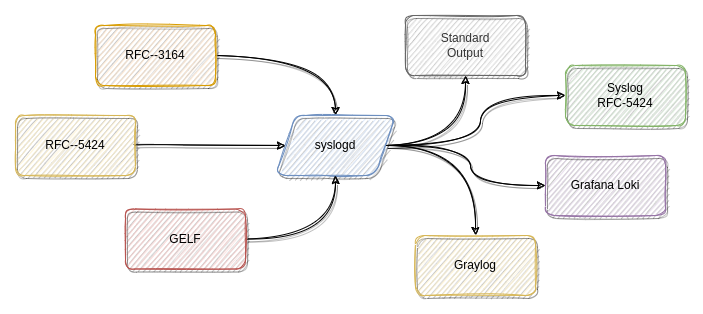
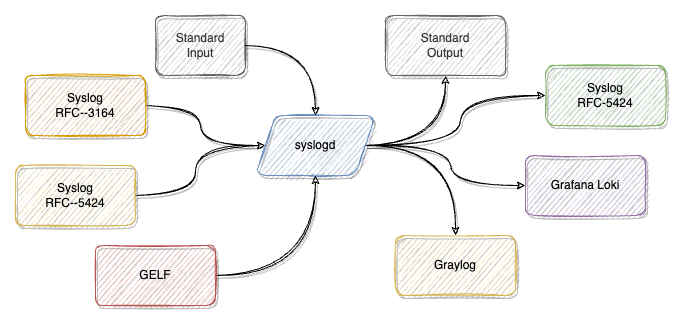
Read from stdin and forward.

Changed region(s): [[0.0, 0.0287, 0.9839, 0.9745]]

diff --git a/src/main/java/biz/nellemann/syslogd/InputReader.java b/src/main/java/biz/nellemann/syslogd/InputReader.java
@@ -1,0 +1,69 @@
+package biz.nellemann.syslogd;
+
+import biz.nellemann.syslogd.msg.SyslogMessage;
+
+import java.io.InputStream;
+import java.util.ArrayList;
+import java.util.List;
+import java.util.Scanner;
+
+public class InputReader extends Thread {
+
+    private final Scanner input;
+    private final String protocol;
+
+    public InputReader(InputStream inputStream, String protocol) {
+        input = new Scanner(inputStream);
+        this.protocol = protocol;
+    }
+
+    public void run() {
+
+        while(input.hasNextLine()) {
+            SyslogMessage msg = new SyslogMessage(input.nextLine());
+            msg.hostname = "localhost";
+            msg.application = "syslogd";
+
+            String payload;
+            if(protocol.equalsIgnoreCase("GELF"))
+                payload = SyslogPrinter.toGelf(msg);
+            else if (protocol.equalsIgnoreCase("RFC-5424")) {
+                payload = SyslogPrinter.toRfc5424(msg);
+            } else {
+                payload = SyslogPrinter.toRfc3164(msg);
+            }
+
+            sendEvent(payload);
+        }
+        input.close();
+    }
+
+
+    private synchronized void sendEvent(String text) {
+        LogReceiveEvent event = new LogReceiveEvent( this, text);
+        for (LogReceiveListener eventListener : eventListeners) {
+            eventListener.onLogEvent(event);
+        }
+    }
+
+
+    /**
+     * Event Listener Configuration
+     */
+
+    protected List<LogReceiveListener> eventListeners = new ArrayList<>();
+
+    public synchronized void addEventListener(LogReceiveListener listener ) {
+        eventListeners.add( listener );
+    }
+
+    public synchronized void addEventListener(List<LogReceiveListener> listeners ) {
+        eventListeners.addAll(listeners);
+    }
+
+    public synchronized void removeEventListener( LogReceiveListener l ) {
+        eventListeners.remove( l );
+    }
+
+
+}

diff --git a/src/main/java/biz/nellemann/syslogd/Application.java b/src/main/java/biz/nellemann/syslogd/Application.java
@@ -58,6 +58,9 @@ public class Application implements Callable<Integer>, LogReceiveListener {
     @CommandLine.Option(names = "--no-stdout", negatable = true, description = "Output messages to stdout [default: true].", defaultValue = "true")
     private boolean stdout;
 
+    @CommandLine.Option(names = "--no-stdin", negatable = true, description = "Forward messages from stdin [default: true].", defaultValue = "true")
+    private boolean stdin;
+
     @CommandLine.Option(names = {"-f", "--format"}, description = "Input format: RFC-5424, RFC-3164 or GELF [default: RFC-3164].", defaultValue = "RFC-3164")
     private String protocol;
 
@@ -76,7 +79,6 @@ public class Application implements Callable<Integer>, LogReceiveListener {
 
     @Override
     public Integer call() throws IOException {
-
 
         if(enableDebug) {
             System.setProperty("org.slf4j.simpleLogger.defaultLogLevel", "DEBUG");
@@ -113,6 +115,12 @@ public class Application implements Callable<Integer>, LogReceiveListener {
             logForwardListeners.add(lokiClient);
             Thread t = new Thread(lokiClient);
             t.start();
+        }
+
+        if(stdin) {
+            InputReader inputReader = new InputReader(System.in, protocol);
+            inputReader.addEventListener(this);
+            inputReader.start();
         }
 
         if(udpServer) {

diff --git a/src/main/java/biz/nellemann/syslogd/LogReceiveEvent.java b/src/main/java/biz/nellemann/syslogd/LogReceiveEvent.java
@@ -23,15 +23,13 @@ import java.util.EventObject;
 public class LogReceiveEvent extends EventObject {
 
     private static final long serialVersionUID = 1L;
-    //private final String message;
     private final DatagramPacket packet;
 
-    /*
     public LogReceiveEvent(final Object source, final String message ) {
         super( source );
-        this.message = message;
+        byte[] bytes = message.getBytes();
+        this.packet = new DatagramPacket(bytes, bytes.length);
     }
-    */
 
     public LogReceiveEvent(final Object source, final DatagramPacket packet) {
         super( source );

diff --git a/src/main/java/biz/nellemann/syslogd/msg/SyslogMessage.java b/src/main/java/biz/nellemann/syslogd/msg/SyslogMessage.java
@@ -36,7 +36,7 @@ public class SyslogMessage {
 
     // The TIMESTAMP field is a formalized timestamp derived from [RFC3339].
     @JsonProperty("timestamp")  // 1670357783.694 - in GELF: seconds since UNIX epoch with optional decimal places for milliseconds
-    public Instant timestamp;
+    public Instant timestamp = Instant.now();
 
     // The HOSTNAME field identifies the machine that originally sent the syslog message.
     @JsonProperty("host")

diff --git a/src/main/java/biz/nellemann/syslogd/parser/SyslogParser.java b/src/main/java/biz/nellemann/syslogd/parser/SyslogParser.java
@@ -73,7 +73,7 @@ public abstract class SyslogParser {
             Inflater decompressor = new Inflater();
             decompressor.setInput(data, 0, data.length);
             //byte[] result = new byte[data.length * 2];
-            int resultLength = decompressor.inflate(result);
+            decompressor.inflate(result);
             decompressor.end();
 
             // Decode the bytes into a String

diff --git a/src/main/java/biz/nellemann/syslogd/parser/JsonUtil.java b/src/main/java/biz/nellemann/syslogd/parser/JsonUtil.java
@@ -8,6 +8,10 @@ public class JsonUtil {
 
     public static String encode(String input) {
 
+        if(input == null) {
+            return "";
+        }
+
         StringBuilder output = new StringBuilder();
 
         for (int i = 0; i < input.length(); i++) {

diff --git a/README.md b/README.md
@@ -27,14 +27,15 @@ Some of my other related projects are:
 - Install the syslogd package (*.deb* or *.rpm*) from [packages](https://git.data.coop/nellemann/-/packages/generic/syslogd/) or build from source.
 
 ```text
-Usage: syslogd [-dhV] [--[no-]ansi] [--[no-]stdout] [--[no-]tcp] [--[no-]udp]
-               [-f=<protocol>] [-p=<num>] [--to-gelf=<uri>] [--to-loki=<url>]
-               [--to-syslog=<uri>]
+Usage: syslogd [-dhV] [--[no-]ansi] [--[no-]stdin] [--[no-]stdout] [--[no-]tcp]
+               [--[no-]udp] [-f=<protocol>] [-p=<num>] [--to-gelf=<uri>]
+               [--to-loki=<url>] [--to-syslog=<uri>]
   -d, --debug               Enable debugging [default: 'false'].
   -f, --format=<protocol>   Input format: RFC-5424, RFC-3164 or GELF [default:
                               RFC-3164].
   -h, --help                Show this help message and exit.
       --[no-]ansi           Output in ANSI colors [default: true].
+      --[no-]stdin          Forward messages from stdin [default: true].
       --[no-]stdout         Output messages to stdout [default: true].
       --[no-]tcp            Listen on TCP [default: true].
       --[no-]udp            Listen on UDP [default: true].
